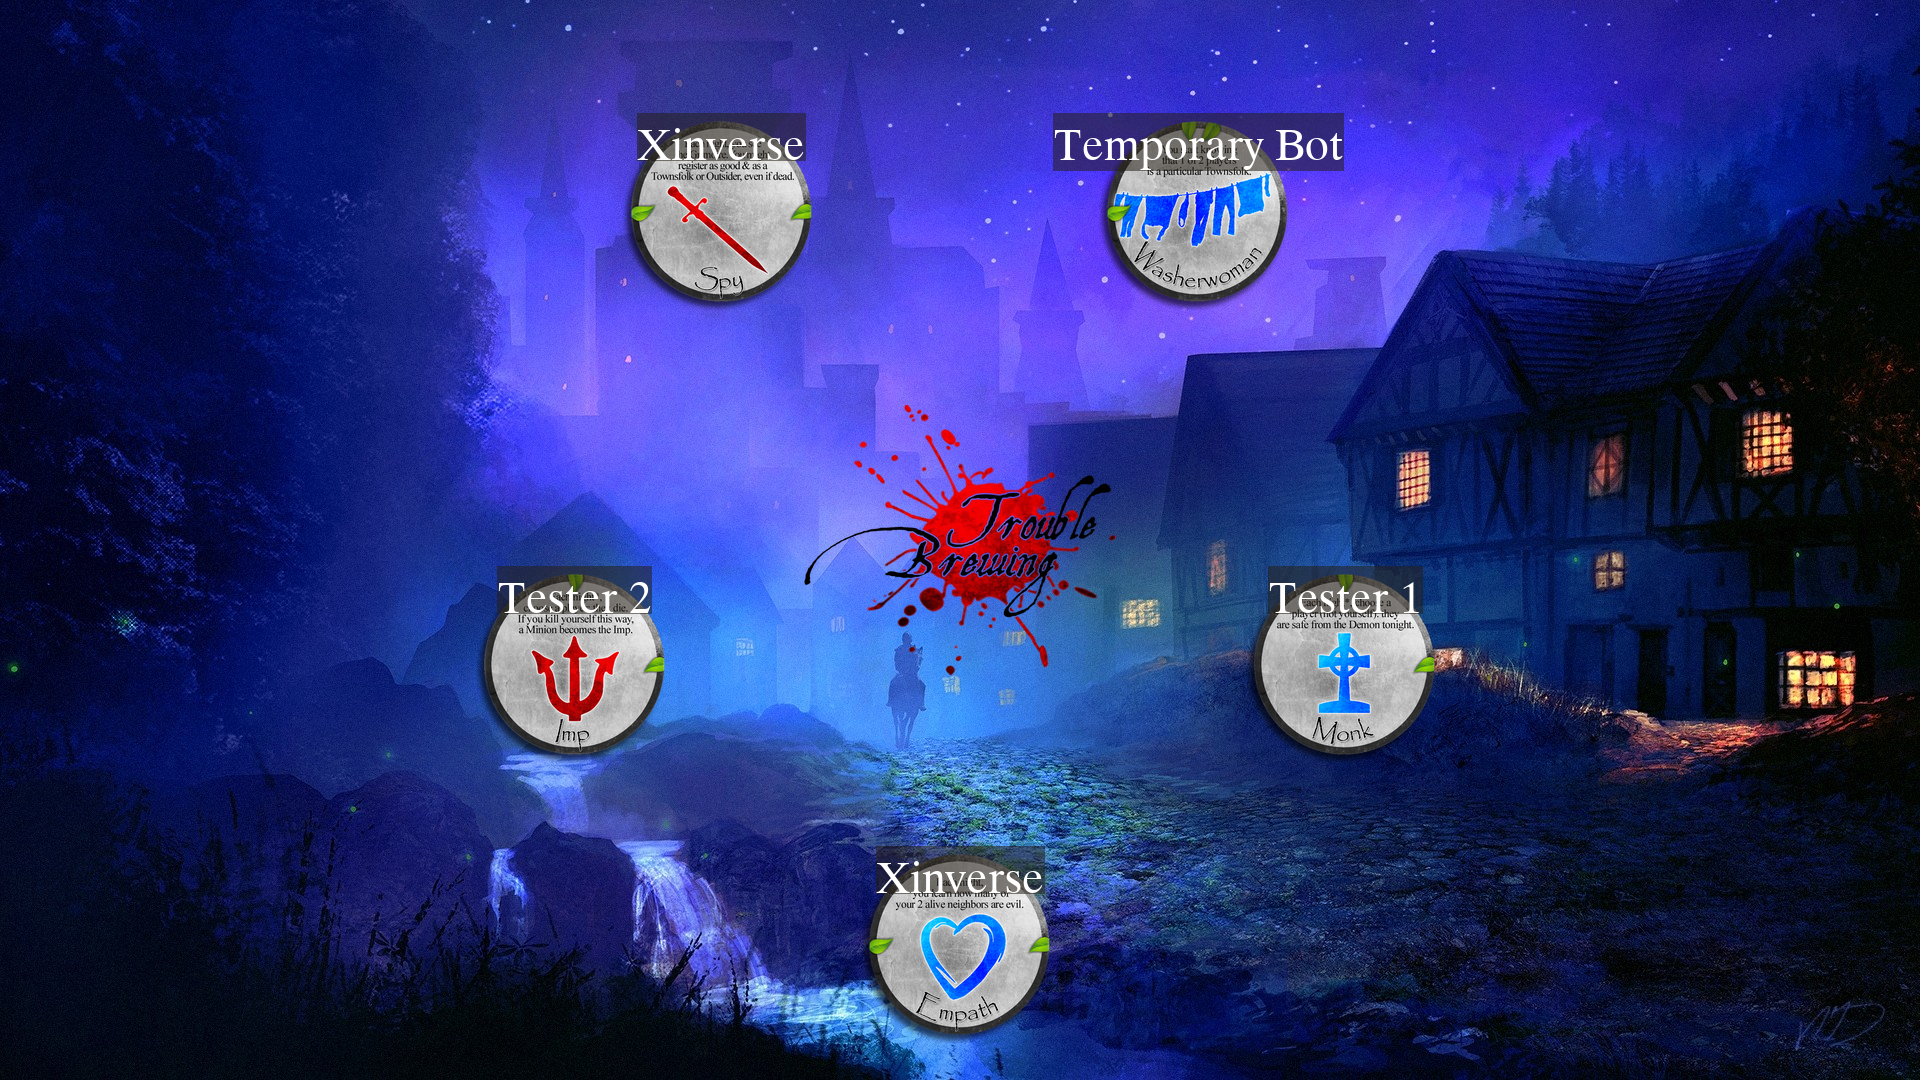
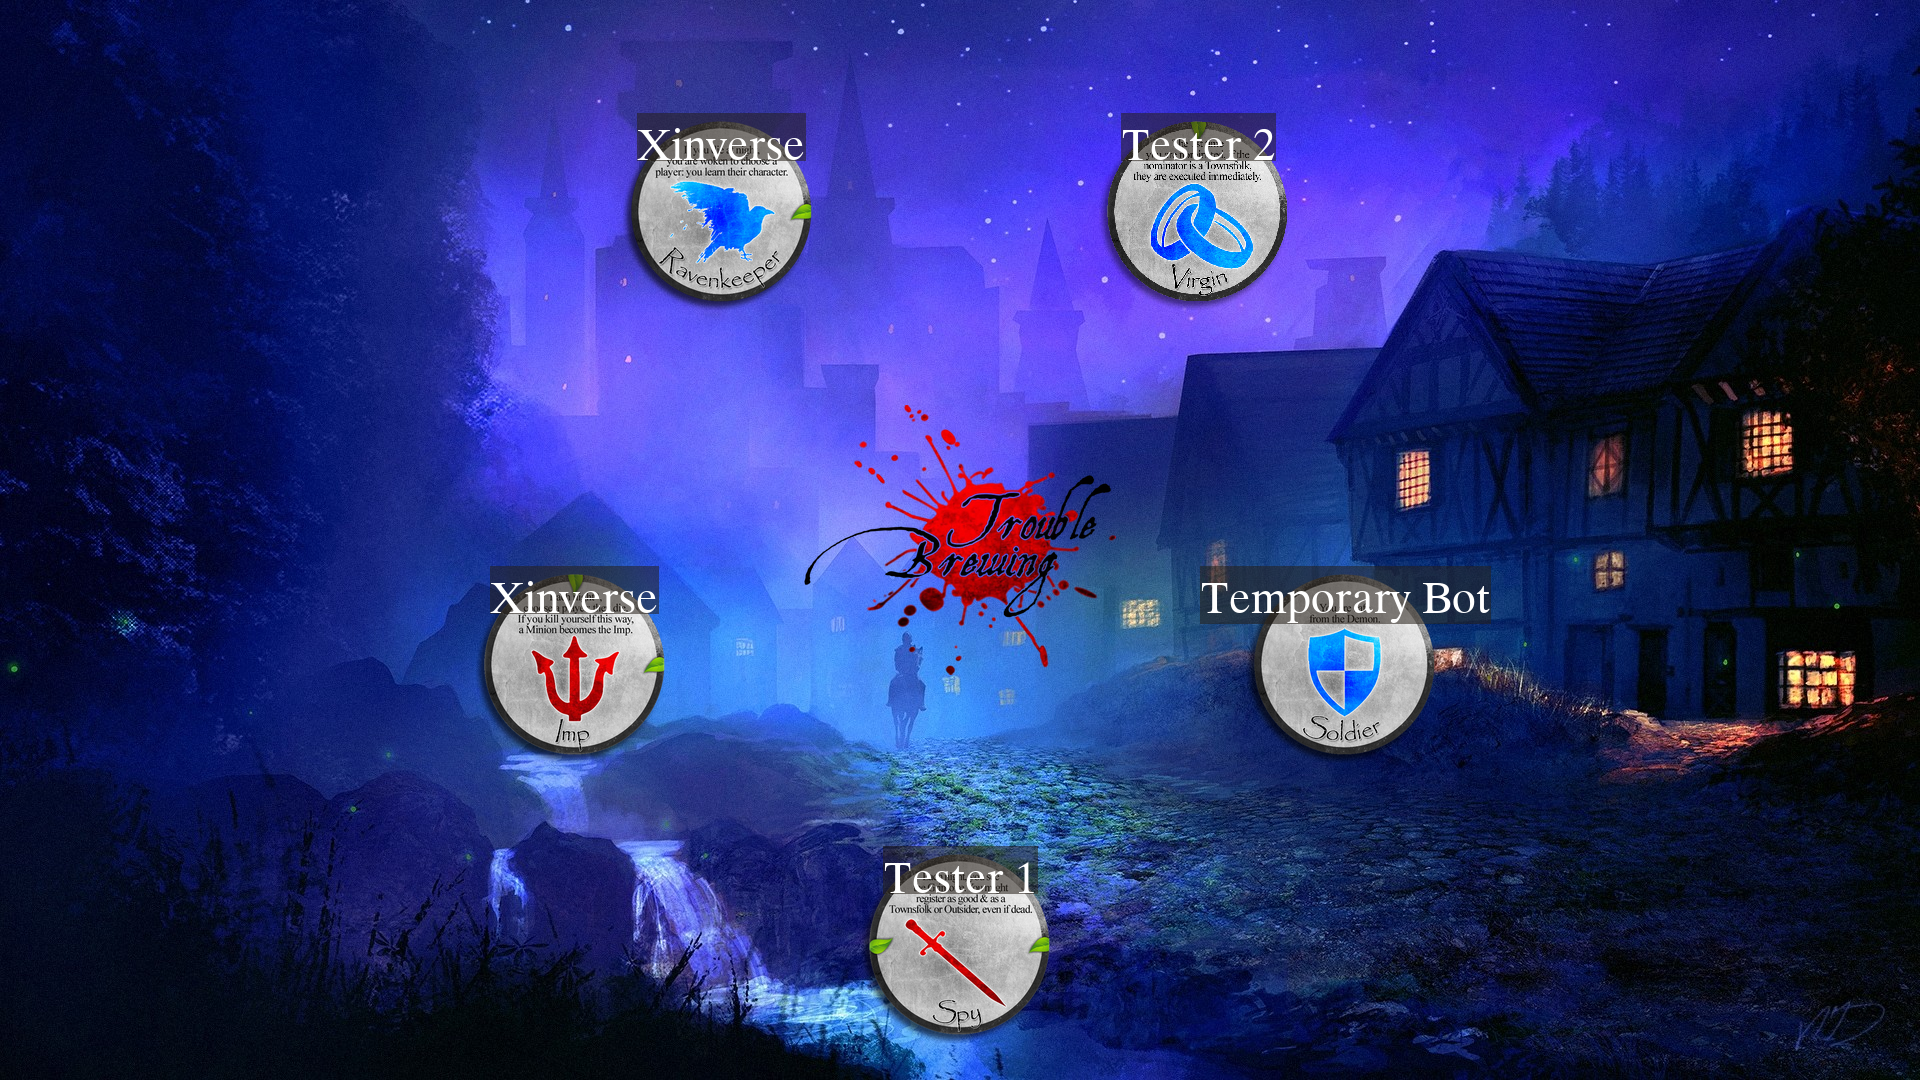
demon star  passing

diff --git a/botc/gamemodes/troublebrewing/Imp.py b/botc/gamemodes/troublebrewing/Imp.py
@@ -3,6 +3,7 @@
 import json
 import discord
 import random
+import datetime
 import botutils
 from botc import Action, ActionTypes, Demon, Townsfolk, Outsider, Character, \
     RecurringAction, StatusList, AlreadyDead
@@ -18,6 +19,7 @@ with open('botc/game_text.json') as json_file:
     strings = json.load(json_file)
     demon_bluff_str = strings["gameplay"]["demonbluffs"]
     action_assign = strings["gameplay"]["action_assign"]
+    copyrights_str = strings["misc"]["copyrights"]
 
 with open('botutils/bot_text.json') as json_file:
     bot_text = json.load(json_file)
@@ -170,6 +172,82 @@ class Imp(Demon, TroubleBrewing, Character, RecurringAction):
             if killed_player.has_status_effect(StatusList.safety_from_demon):
                 return
             await killed_player.role.true_self.on_being_demon_killed(killed_player)
+    
+    async def _starpass(self, demon_player):
+        """Starpassing ability works when the demon is killed by himself at night"""
+        
+        # If 5 or more players alive (not counting travelers), scarlet woman has priority 
+        # over the promotion to demonhood
+        if globvars.master_state.game.nb_alive_players >= 5:
+
+            from botc.gamemodes.troublebrewing import ScarletWoman
+            # This list of scarletwomen could contain dead players
+            scarletwomen = BOTCUtils.get_players_from_role_name(ScarletWoman()._role_enum)
+
+            if scarletwomen:
+                # We only want the alive players
+                alive_scarletwomen = [player for player in scarletwomen if player.is_alive()]
+                if alive_scarletwomen:
+                    promoted = random.choice(alive_scarletwomen)
+                    await promoted.exec_change_role(Imp())
+
+                    # Construct the message to send
+                    recipient = promoted.user
+                    msg = f"***{recipient.name}#{recipient.discriminator}***:"
+                    msg += "\n"
+                    msg += "You are now the {} **{}**.".format(self.emoji, self.name)
+                    msg += "\n"
+                    msg += self.emoji + " " + self.instruction
+
+                    embed = discord.Embed(description = msg)
+                    embed.set_thumbnail(url = self.art_link)
+                    embed.set_footer(text = copyrights_str)
+                    embed.timestamp = datetime.datetime.utcnow()
+
+                    try:
+                        await promoted.user.send(embed = embed)
+                    except discord.Forbidden:
+                        pass
+                    return
+        
+        # Otherwise, any random minion is selected
+        # This list of minions could contain dead players
+        minions = BOTCUtils.get_all_minions()
+
+        if minions:
+            # We only want the alive players
+            alive_minions = [player for player in minions if player.is_alive()]
+            if alive_minions:
+                promoted = random.choice(alive_minions)
+                await promoted.exec_change_role(Imp())
+
+                # Construct the message to send
+                recipient = promoted.user
+                msg = f"***{recipient.name}#{recipient.discriminator}***:"
+                msg += "\n"
+                msg += "You are now the {} **{}**.".format(self.emoji, self.name)
+                msg += "\n"
+                msg += self.emoji + " " + self.instruction
+
+                embed = discord.Embed(description = msg)
+                embed.set_thumbnail(url = self.art_link)
+                embed.set_footer(text = copyrights_str)
+                embed.timestamp = datetime.datetime.utcnow()
+                
+                try:
+                    await promoted.user.send(embed = embed)
+                except discord.Forbidden:
+                    pass
+
+    async def on_being_demon_killed(self, killed_player):
+        """Function that runs after the player has been killed by the demon at night.
+        Overriding the parent behaviour. 
+        This implements the star passing mechanic.
+        """
+        if killed_player.is_alive():
+            await self._starpass(killed_player)
+            await killed_player.exec_real_death()
+            globvars.master_state.game.night_deaths.append(killed_player)
     
     async def process_night_ability(self, player):
         """Process night actions for the imp character.

diff --git a/botc/Character.py b/botc/Character.py
@@ -368,13 +368,6 @@ class Character:
         from botc.gameloops import nomination_loop
         nomination_loop.start(globvars.master_state.game, nominator_player, nominated_player)
     
-    async def after_death(self, dead_player):
-        """Function that runs after the player has died.
-        Default behaviour is to do nothing. Override by child classes to have special 
-        behaviours.
-        """
-        return 
-    
     async def on_being_executed(self, executed_player):
         """Funtion that runs after the player has been executed.
         Default behaviour is to execute the player's real death (real state)
@@ -384,8 +377,6 @@ class Character:
             await executed_player.exec_real_death()
         except AlreadyDead:
             pass
-        else:
-            await self.after_death(executed_player)
     
     async def on_being_demon_killed(self, killed_player):
         """Function that runs after the player has been killed by the demon at night.
@@ -398,7 +389,6 @@ class Character:
             pass
         else:
             globvars.master_state.game.night_deaths.append(killed_player)
-            await self.after_death(killed_player)
     
     # -------------------- Character ABILITIES --------------------
 

diff --git a/botc/BOTCUtils.py b/botc/BOTCUtils.py
@@ -80,6 +80,17 @@ class BOTCUtils:
          if player.role.ego_self.name == character_name_enum.value:
             ret.append(player)
       return ret
+   
+   @staticmethod
+   def get_all_minions():
+      """Return the list of players that are minions, using true_self"""
+      import globvars
+      game = globvars.master_state.game
+      ret = []
+      for player in game.sitting_order:
+         if player.role.true_self.category == Category.minion:
+            ret.append(player)
+      return ret
 
    @staticmethod
    def get_random_player():
